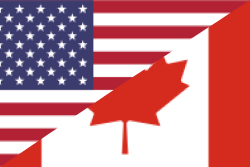
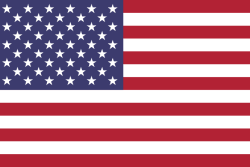
fix: safeareaview  and change flags

diff --git a/src/screens/Home/index.tsx b/src/screens/Home/index.tsx
@@ -1,92 +1,156 @@
-import React, { useCallback, useState } from 'react';
-import { TouchableOpacity, Text, View, Image } from 'react-native';
-import { useNavigation, useFocusEffect } from '@react-navigation/native';
-import { styles } from './styles';
-import { ButtonIcon } from '../../components/ButtonIcon';
-import { ModalInfo } from '../../components/ModalInfo/ModalInfo';
-import { ScreenComponent } from '../../components/ScreenComponent';
+import React, {useCallback, useState} from 'react';
+import {TouchableOpacity, Text, View, Image} from 'react-native';
+import {useNavigation, useFocusEffect} from '@react-navigation/native';
+import {styles} from './styles';
+import {ButtonIcon} from '../../components/ButtonIcon';
+import {ModalInfo} from '../../components/ModalInfo/ModalInfo';
+import {ScreenComponent} from '../../components/ScreenComponent';
 import AsyncStorage from '@react-native-async-storage/async-storage';
-import { useThemeControl } from '../../stores/themeSetColor';
-import Moon from '../../assets/moon.png'
-import Sun from '../../assets/sun.png'
+import {useThemeControl} from '../../stores/themeSetColor';
+import Moon from '../../assets/moon.png';
+import Sun from '../../assets/sun.png';
 import '../../utils/i18n';
-import { useTranslation } from 'react-i18next';
-import { flags } from '../../assets/flags';
+import {useTranslation} from 'react-i18next';
+import {flags} from '../../assets/flags';
 import Dropdown from '../../components/DropDown';
 
 export function Home() {
-  const { t } = useTranslation();
-  const { navigate } = useNavigation();
-  const { theme, toggleTheme } = useThemeControl();
-  const [homeFocus, setHomeFocus] = useState(false)
-  const [teste, setTeste] = useState(false)
+  const {t} = useTranslation();
+  const {navigate} = useNavigation();
+  const {theme, toggleTheme} = useThemeControl();
+  const [homeFocus, setHomeFocus] = useState(false);
+  const [teste, setTeste] = useState(false);
 
   useFocusEffect(
     useCallback(() => {
       setHomeFocus(true);
       return () => {
         setHomeFocus(false);
-      }
-    }, [])
-  )
+      };
+    }, []),
+  );
 
   const handleToggleTheme = async () => {
     try {
       const currentTheme = await AsyncStorage.getItem('theme');
       toggleTheme(currentTheme === 'dark' ? 'light' : 'dark');
-      await AsyncStorage.setItem('theme', currentTheme === 'dark' ? 'light' : 'dark');
+      await AsyncStorage.setItem(
+        'theme',
+        currentTheme === 'dark' ? 'light' : 'dark',
+      );
     } catch (error) {
       console.error('Error toggling theme:', error);
     }
   };
 
-
   return (
     <ScreenComponent>
-      <View style={{ width: '100%', marginBottom: 30, display: 'flex', flexDirection: 'row', justifyContent: 'space-between', paddingHorizontal: 30 }}>
+      <View
+        style={{
+          width: '100%',
+          marginBottom: 30,
+          display: 'flex',
+          flexDirection: 'row',
+          justifyContent: 'space-between',
+          paddingHorizontal: 30,
+        }}>
         <Dropdown options={flags} />
-        <TouchableOpacity onPress={handleToggleTheme} style={{ borderRadius: 50, padding: 2 }} accessibilityLabel='Change app theme button'>
-          {theme.bar === "dark" ? (<Image source={Sun} style={{ width: 26, height: 26 }} />) : (<Image source={Moon} style={{ width: 26, height: 26 }} />)}
+        <TouchableOpacity
+          onPress={handleToggleTheme}
+          style={{borderRadius: 50, padding: 2}}
+          accessibilityLabel="Change app theme button">
+          {theme.bar === 'dark' ? (
+            <Image source={Sun} style={{width: 26, height: 26}} />
+          ) : (
+            <Image source={Moon} style={{width: 26, height: 26}} />
+          )}
         </TouchableOpacity>
       </View>
-      <View style={[styles.header, { backgroundColor: theme.colors.primaryColor }]}>
-        <Text style={[styles.welcome, {
-          color: theme.colors.textColor,
-          fontFamily: theme.fonts.textBold,
-        }]}>
-          {t("wellcome")}
+      <View
+        style={[styles.header, {backgroundColor: theme.colors.primaryColor}]}>
+        <Text
+          style={[
+            styles.welcome,
+            {
+              color: theme.colors.textColor,
+              fontFamily: theme.fonts.textBold,
+            },
+          ]}>
+          {t('wellcome')}
         </Text>
-        <Text style={[styles.text, {
-          color: theme.colors.textColor,
-          fontFamily: theme.fonts.textRegular
-        }]}>
+        <Text
+          style={[
+            styles.text,
+            {
+              color: theme.colors.textColor,
+              fontFamily: theme.fonts.textRegular,
+            },
+          ]}>
           {t('select')}
         </Text>
       </View>
 
       <View style={styles.boxCollection}>
         <View style={styles.boxConente}>
-          <ButtonIcon icon='breath_1' title={t("title_breath_1")} onPress={() => navigate('breathConscious')} />
-          <ButtonIcon icon='breath_2' title={t("title_breath_2")} onPress={() => navigate('breath478')} />
-          <ButtonIcon icon='breath_3' title={t("title_breath_3")} onPress={() => navigate('breathAbdominal')} />
+          <ButtonIcon
+            icon="breath_1"
+            title={t('title_breath_1')}
+            onPress={() => navigate('breathConscious')}
+          />
+          <ButtonIcon
+            icon="breath_2"
+            title={t('title_breath_2')}
+            onPress={() => navigate('breath478')}
+          />
+          <ButtonIcon
+            icon="breath_3"
+            title={t('title_breath_3')}
+            onPress={() => navigate('breathAbdominal')}
+          />
         </View>
         <View style={styles.boxConente}>
-          <ButtonIcon icon='breath_4' title={t("title_breath_4")} onPress={() => navigate('breathSquare')} />
-          <ButtonIcon icon='breath_5' title={t("title_breath_5")} onPress={() => navigate('breathDeep')} />
-          <ButtonIcon icon='breath_6' title={t("title_breath_6")} onPress={() => navigate('breathAlternate')} />
+          <ButtonIcon
+            icon="breath_4"
+            title={t('title_breath_4')}
+            onPress={() => navigate('breathSquare')}
+          />
+          <ButtonIcon
+            icon="breath_5"
+            title={t('title_breath_5')}
+            onPress={() => navigate('breathDeep')}
+          />
+          <ButtonIcon
+            icon="breath_6"
+            title={t('title_breath_6')}
+            onPress={() => navigate('breathAlternate')}
+          />
         </View>
       </View>
 
-      {homeFocus && <ModalInfo >
-        <View style={{ marginTop: 20, paddingHorizontal: 10 }}>
-          <Text style={{ fontFamily: theme.fonts.textRegular, color: theme.colors.textColor, lineHeight: 26, textAlign: 'justify' }}>
-            {t('info_home')} {'\n'}
-            <Text style={{ fontFamily: theme.fonts.textBold, fontWeight: "bold", fontStyle: 'italic', fontSize: 16 }}>
-              {t('info_home_2')}
+      {homeFocus && (
+        <ModalInfo>
+          <View style={{marginTop: 20, paddingHorizontal: 10}}>
+            <Text
+              style={{
+                fontFamily: theme.fonts.textRegular,
+                color: theme.colors.textColor,
+                lineHeight: 26,
+                textAlign: 'justify',
+              }}>
+              {t('info_home')} {'\n'}
+              <Text
+                style={{
+                  fontFamily: theme.fonts.textBold,
+                  fontWeight: 'bold',
+                  fontStyle: 'italic',
+                  fontSize: 16,
+                }}>
+                {t('info_home_2')}
+              </Text>
             </Text>
-          </Text>
-        </View>
-      </ModalInfo>}
+          </View>
+        </ModalInfo>
+      )}
     </ScreenComponent>
   );
 }

diff --git a/src/components/ScreenComponent/index.tsx b/src/components/ScreenComponent/index.tsx
@@ -1,31 +1,44 @@
-import React, { ReactNode } from 'react';
-import { TouchableOpacity, View, ViewProps, Image } from 'react-native';
-import InfoIcon from '../../assets/info.png'
+import React, {ReactNode} from 'react';
+import {
+  TouchableOpacity,
+  View,
+  ViewProps,
+  Image,
+  SafeAreaView,
+} from 'react-native';
+import InfoIcon from '../../assets/info.png';
 import useModalHomeControl from '../../stores/modalHomeControl';
-import { styles } from './styles';
-import { useThemeControl } from '../../stores/themeSetColor';
+import {styles} from './styles';
+import {useThemeControl} from '../../stores/themeSetColor';
 
 type ScreenPorps = ViewProps & {
   children: ReactNode;
-}
+};
 
-
-export function ScreenComponent({ children, ...rest }: ScreenPorps) {
-  const { theme } = useThemeControl();
-  const { controlHomeModal, setControlHomeModal } = useModalHomeControl();
+export function ScreenComponent({children, ...rest}: ScreenPorps) {
+  const {theme} = useThemeControl();
+  const {controlHomeModal, setControlHomeModal} = useModalHomeControl();
   return (
-    <View style={[styles.container, { backgroundColor: theme.colors.primaryColor }]}  {...rest} >
-      <View style={[styles.children, { backgroundColor: theme.colors.primaryColor }]}>
+    <SafeAreaView
+      style={[styles.container, {backgroundColor: theme.colors.primaryColor}]}
+      {...rest}>
+      <View
+        style={[styles.children, {backgroundColor: theme.colors.primaryColor}]}>
         {children}
       </View>
-      <View style={[styles.buttonModal, { backgroundColor: theme.colors.primaryColor }]}>
+      <View
+        style={[
+          styles.buttonModal,
+          {backgroundColor: theme.colors.primaryColor},
+        ]}>
         <TouchableOpacity
-          style={{ borderRadius: 50, padding: 4 }}
-          accessibilityLabel='Icon open modal information'
-          activeOpacity={0.5} onPress={() => setControlHomeModal(!controlHomeModal)}>
-          <Image source={InfoIcon} style={{ width: 24, height: 24 }} />
+          style={{borderRadius: 50, padding: 4}}
+          accessibilityLabel="Icon open modal information"
+          activeOpacity={0.5}
+          onPress={() => setControlHomeModal(!controlHomeModal)}>
+          <Image source={InfoIcon} style={{width: 24, height: 24}} />
         </TouchableOpacity>
       </View>
-    </View>
+    </SafeAreaView>
   );
 }

diff --git a/src/screens/Breath478/styles.ts b/src/screens/Breath478/styles.ts
@@ -1,17 +1,17 @@
-import { StyleSheet, Dimensions } from 'react-native';
+import {StyleSheet, Dimensions} from 'react-native';
 
-const { height } = Dimensions.get('screen')
+const {height} = Dimensions.get('screen');
 
-const value = height < 800 ? 140 : 260
+const value = height < 800 ? 140 : 260;
 
 export const styles = StyleSheet.create({
   contentInfo: {
     width: '100%',
-    paddingHorizontal: 26,
-    marginTop: 20
+    paddingHorizontal: 24,
+    marginTop: 20,
   },
   text: {
-    lineHeight: 26,
+    lineHeight: 24,
     fontSize: 14,
   },
   boxStopWatch: {
@@ -19,7 +19,7 @@ export const styles = StyleSheet.create({
     width: '90%',
     height: value,
     alignItems: 'center',
-    justifyContent: 'center'
+    justifyContent: 'center',
   },
   label: {
     marginTop: 20,
@@ -34,10 +34,10 @@ export const styles = StyleSheet.create({
     display: 'flex',
     flexDirection: 'row',
     alignItems: 'center',
-    justifyContent: 'space-evenly'
+    justifyContent: 'space-evenly',
   },
   play: {
-    backgroundColor: "#00FF7F",
+    backgroundColor: '#00FF7F',
     height: 40,
     width: 100,
     display: 'flex',
@@ -46,19 +46,19 @@ export const styles = StyleSheet.create({
     borderRadius: 10,
   },
   stop: {
-    backgroundColor: "#B22222"
+    backgroundColor: '#B22222',
   },
   title: {
     fontWeight: 'bold',
     lineHeight: 20,
-    fontSize: 16
+    fontSize: 16,
   },
   textModal: {
     lineHeight: 18,
     textAlign: 'justify',
-    marginTop: 20
+    marginTop: 20,
   },
   titleButton: {
     lineHeight: 22,
-  }
+  },
 });

diff --git a/src/components/ScreenComponent/styles.ts b/src/components/ScreenComponent/styles.ts
@@ -1,17 +1,17 @@
-import { StyleSheet, Dimensions } from 'react-native';
-import { themeStyles } from '../../global/styles/theme';
+import {StyleSheet, Dimensions} from 'react-native';
 
-const { height, width } = Dimensions.get('screen');
+const {height, width} = Dimensions.get('screen');
 
 export const styles = StyleSheet.create({
   container: {
+    flex: 1,
     height,
     width,
     paddingTop: 40,
     paddingBottom: 20,
     paddingHorizontal: 10,
     alignItems: 'center',
-    justifyContent: 'center'
+    justifyContent: 'center',
   },
   children: {
     flex: 1,
@@ -21,5 +21,5 @@ export const styles = StyleSheet.create({
   buttonModal: {
     alignItems: 'center',
     height: 50,
-  }
-})
+  },
+});

diff --git a/src/components/DropDown/styles.ts b/src/components/DropDown/styles.ts
@@ -1,14 +1,14 @@
-import { StyleSheet } from "react-native";
+import {StyleSheet} from 'react-native';
 
 export const styles = StyleSheet.create({
   container: {
     position: 'relative',
     zIndex: 1,
-    flexDirection: 'row'
+    flexDirection: 'row',
   },
   dropdownHeader: {
     borderRadius: 5,
-    marginRight: 2
+    marginRight: 2,
   },
   selectedOptionContainer: {
     flexDirection: 'row',
